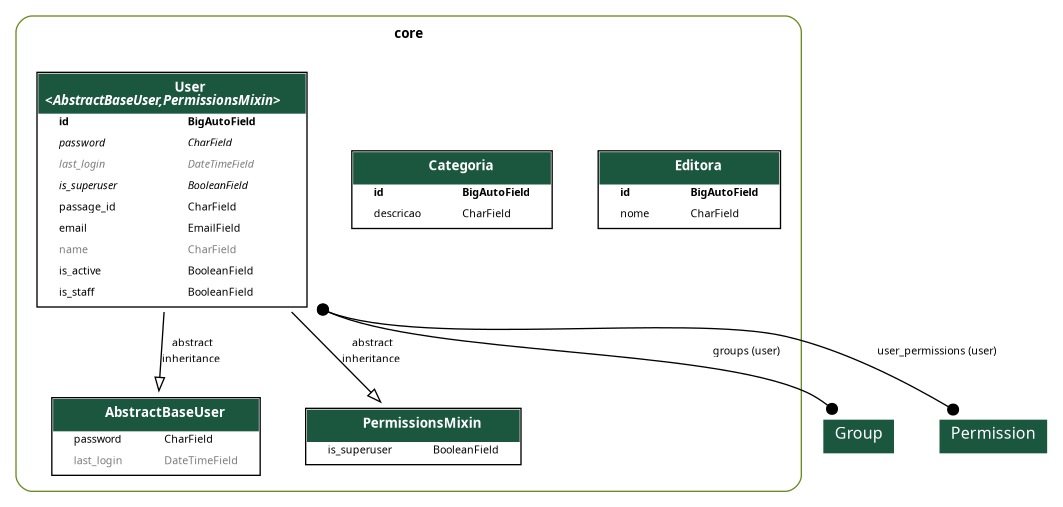
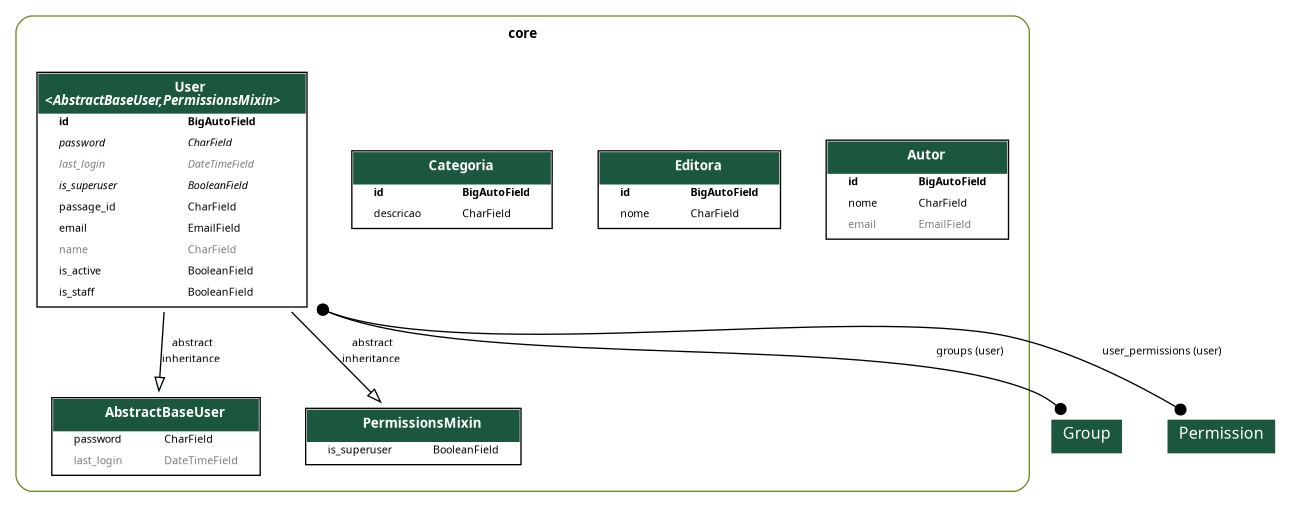
feat: Criação da API para autor

diff --git a/core/migrations/0007_autor.py b/core/migrations/0007_autor.py
@@ -1,0 +1,21 @@
+# Generated by Django 5.1.7 on 2026-03-09 17:09
+
+from django.db import migrations, models
+
+
+class Migration(migrations.Migration):
+
+    dependencies = [
+        ('core', '0006_editora'),
+    ]
+
+    operations = [
+        migrations.CreateModel(
+            name='Autor',
+            fields=[
+                ('id', models.BigAutoField(auto_created=True, primary_key=True, serialize=False, verbose_name='ID')),
+                ('nome', models.CharField(max_length=100)),
+                ('email', models.EmailField(blank=True, max_length=100, null=True)),
+            ],
+        ),
+    ]

diff --git a/app/urls.py b/app/urls.py
@@ -7,13 +7,14 @@ from drf_spectacular.views import (
 )
 from rest_framework.routers import DefaultRouter
 
-from core.views import CategoriaViewSet, UserViewSet, EditoraViewSet
+from core.views import CategoriaViewSet, UserViewSet, EditoraViewSet, AutorViewSet
 
 router = DefaultRouter()
 
 router.register(r'categorias', CategoriaViewSet, basename='categorias')
 router.register(r'usuarios', UserViewSet, basename='usuarios')
 router.register(r'editoras', EditoraViewSet, basename='editoras')
+router.register(r'autores', AutorViewSet, basename='autores')
 
 urlpatterns = [
     path('admin/', admin.site.urls),

diff --git a/core/models/autor.py b/core/models/autor.py
@@ -1,0 +1,9 @@
+from django.db import models
+
+
+class Autor(models.Model):
+    nome = models.CharField(max_length=100)
+    email = models.EmailField(max_length=100, null=True, blank=True)
+
+    def __str__(self):
+        return f'({self.id}) - {self.nome} - {self.email}'

diff --git a/core/views/autor.py b/core/views/autor.py
@@ -1,0 +1,10 @@
+from rest_framework.viewsets import ModelViewSet
+
+from core.models import Autor
+
+from core.serializers import AutorSerializer
+
+
+class AutorViewSet(ModelViewSet):
+    queryset = Autor.objects.all()
+    serializer_class = AutorSerializer

diff --git a/core/serializers/autor.py b/core/serializers/autor.py
@@ -1,0 +1,9 @@
+from rest_framework.serializers import ModelSerializer
+
+from core.models import Autor
+
+
+class AutorSerializer(ModelSerializer):
+    class Meta:
+        model = Autor
+        fields = '__all__'

diff --git a/core/admin.py b/core/admin.py
@@ -54,3 +54,4 @@ class UserAdmin(BaseUserAdmin):
 admin.site.register(models.User, UserAdmin)
 admin.site.register(models.Categoria)
 admin.site.register(models.Editora)
+admin.site.register(models.Autor)

diff --git a/core/views/categoria.py b/core/views/categoria.py
@@ -1,6 +1,7 @@
 from rest_framework.viewsets import ModelViewSet
 
-from core.models import Categoria 
+from core.models import Categoria
+
 from core.serializers import CategoriaSerializer
 
 

diff --git a/core/serializers/__init__.py b/core/serializers/__init__.py
@@ -1,3 +1,4 @@
 from .user import UserSerializer
 from .categoria import CategoriaSerializer
 from .editora import EditoraSerializer
+from .autor import AutorSerializer

diff --git a/core/views/__init__.py b/core/views/__init__.py
@@ -1,3 +1,4 @@
 from .user import UserViewSet
 from .categoria import CategoriaViewSet
 from .editora import EditoraViewSet
+from .autor import AutorViewSet

diff --git a/core/models/__init__.py b/core/models/__init__.py
@@ -1,3 +1,4 @@
 from .user import User
 from .categoria import Categoria
 from .editora import Editora
+from .autor import Autor
